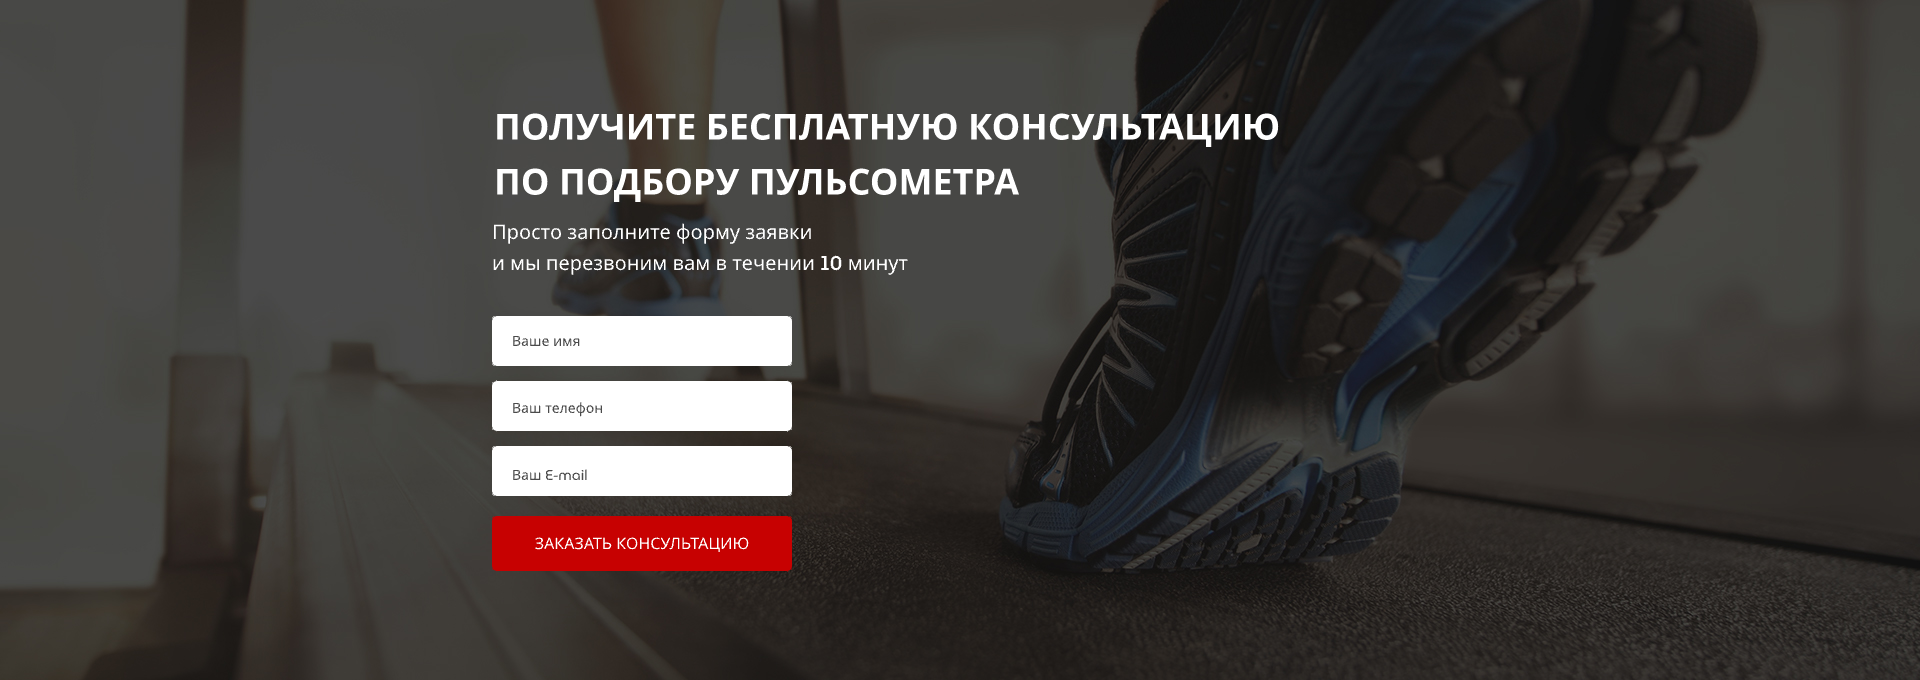
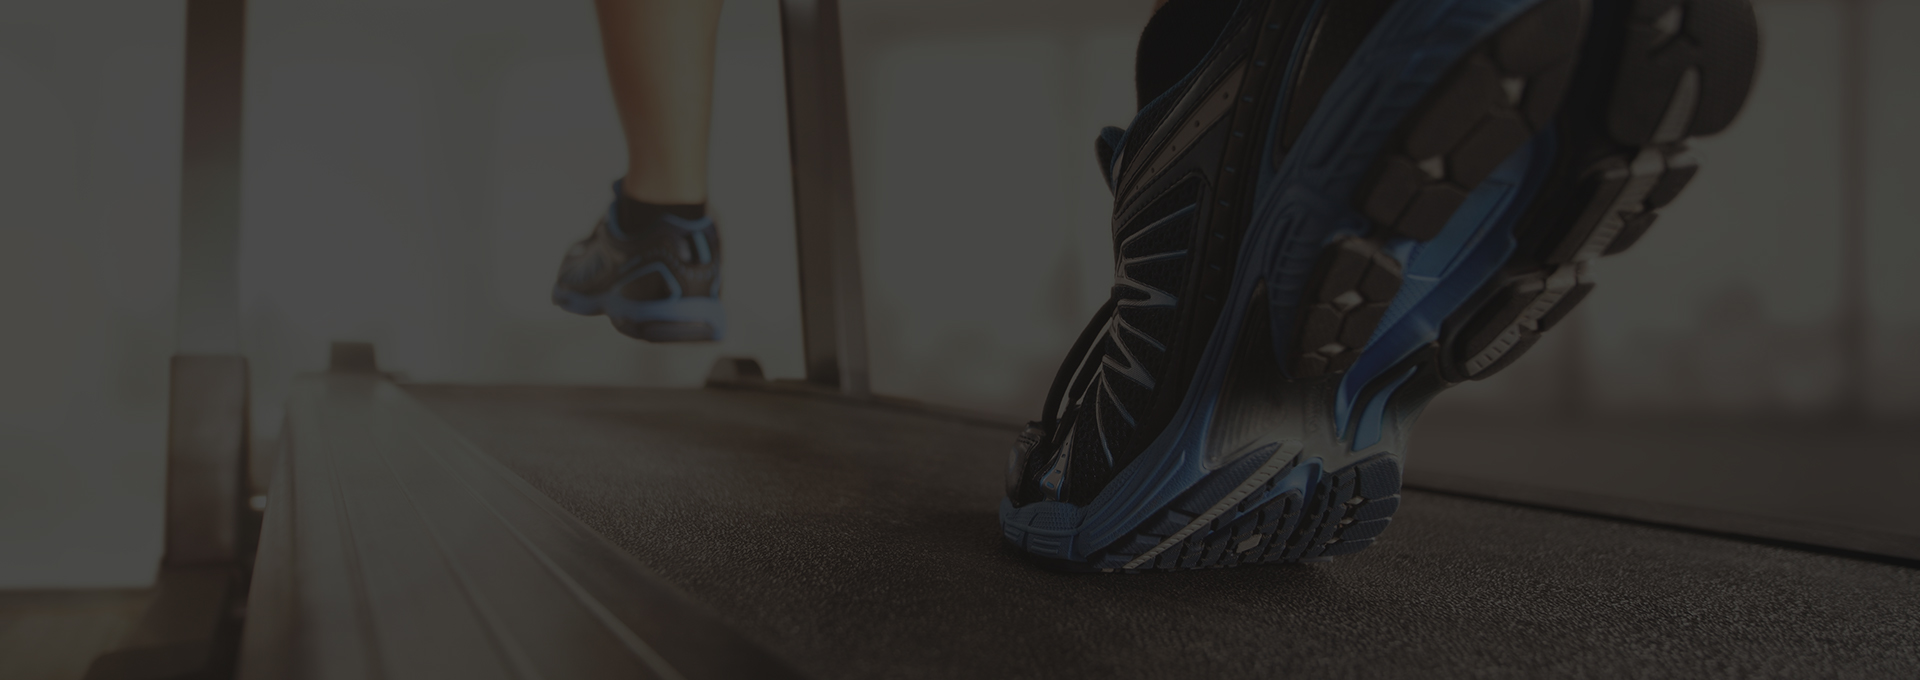
day 4 - finish third section -"Counseling"

diff --git a/src/pages/modules/counseling.jsx b/src/pages/modules/counseling.jsx
@@ -1,0 +1,69 @@
+import React from "react";
+import styled from "styled-components";
+
+import background from '../../images/img/bg/second.png'
+
+const CounselingSection = styled.section`
+    height: 680px;
+    background: url(${background}) center center/ cover no-repeat;
+    padding-top: 100px;
+`, Container = styled.div`
+    width: 950px;
+    margin: 0 auto;
+`, Title = styled.h2`
+    font-size: 36px;
+    color: #fff;
+    line-height: 54px;
+    text-transform: uppercase;
+`, Subtitle = styled.h3`
+    color: #fff;
+    font-size: 20px;
+    width: 426px;
+    margin-top: 10px;
+    line-height: 30px;
+`, Form = styled.form`
+    margin-top: 36px;
+    display: flex;
+    flex-direction: column;
+    gap: 10px;
+`, Input = styled.input`
+    width: 285px;
+    padding-left: 21px;
+    border: none;
+    border-radius: 5px;
+    height: 54px;
+`, Button = styled.button`
+    margin-top: 17px;
+    width: 303px;
+    height: 58px;
+    border: none;
+    border-radius: 5px;
+    background: rgb(199, 1, 1);
+    text-align: center;
+    color: #fff;
+    text-transform: uppercase;
+    cursor: pointer;
+    &:hover {
+        content: '';
+        border: solid 1px #fff;
+        transition: all 0.1s;
+    }
+`
+export default class Counseling extends React.Component {
+    render() {
+        return(
+            <CounselingSection>
+                <Container>
+                    <Title>Получите бесплатную консультацию по подбору пульсометра </Title>
+                    <Subtitle>Просто заполните форму заявки  и мы перезвоним вам в течении 10 минут</Subtitle>
+                    <Form action="#">
+                        <Input placeholder='Ваше имя' type="text"/>
+                        <Input placeholder='Ваш телефон' type="text"/>
+                        <Input placeholder='Ваш E-mail' type="text"/>
+                    </Form>
+                    <Button>заказать кОНСУЛЬТАЦИЮ</Button>
+                </Container>
+            </CounselingSection>
+        )
+    }
+}

diff --git a/src/pages/index.js b/src/pages/index.js
@@ -3,10 +3,10 @@ import styled, {createGlobalStyle} from "styled-components";
 
 import Promo from "./modules/promo";
 import Advantages from './modules/advantages'
+import Counseling from "./modules/counseling";
 
 const GlobalStyle = createGlobalStyle`
     @import url('https://fonts.googleapis.com/css2?family=MuseoModerno:ital,wght@0,500,700;1,500,700&display=swap');
-    
     *{
         margin: 0;
         padding: 0;
@@ -28,7 +28,7 @@ export default class IndexPage extends React.Component {
                 <GlobalStyle/>
                 <Promo/>
                 <Advantages/>
-
+                <Counseling/>
             </>
         )
     }

diff --git a/src/pages/modules/promo.jsx b/src/pages/modules/promo.jsx
@@ -49,6 +49,12 @@ const PromoSection = styled.section`
     text-align: center;
     font-weight: 500;
     color: #fff;
+    cursor: pointer;
+    &:hover {
+        content: '';
+        border: solid 1px #fff;
+        transition: all 0.1s;
+    }
 `, MainWrapper = styled.div`
     display: flex;
     flex-direction: column;
@@ -89,6 +95,12 @@ const PromoSection = styled.section`
     font-size: 16px;
     text-transform: uppercase;
     color: #fff;
+    cursor: pointer;
+    &:hover {
+        content: '';
+        border: solid 1px #fff;
+        transition: all 0.1s;
+    }
 `, Link = styled.h3`
     font-size: 16px;
     color: #fff;
